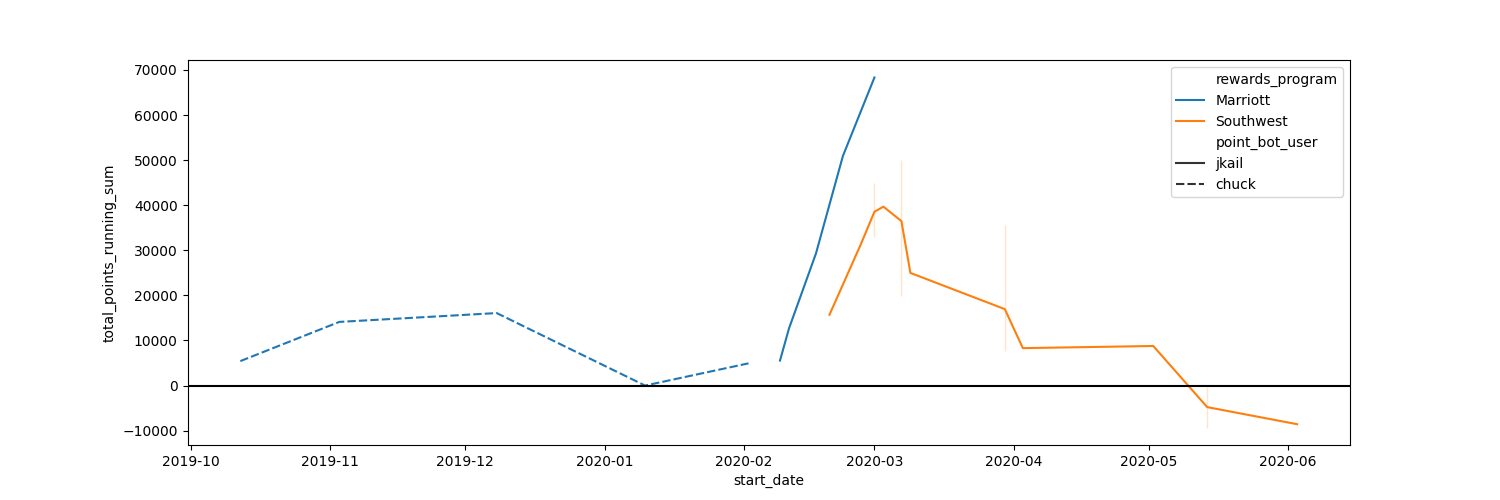
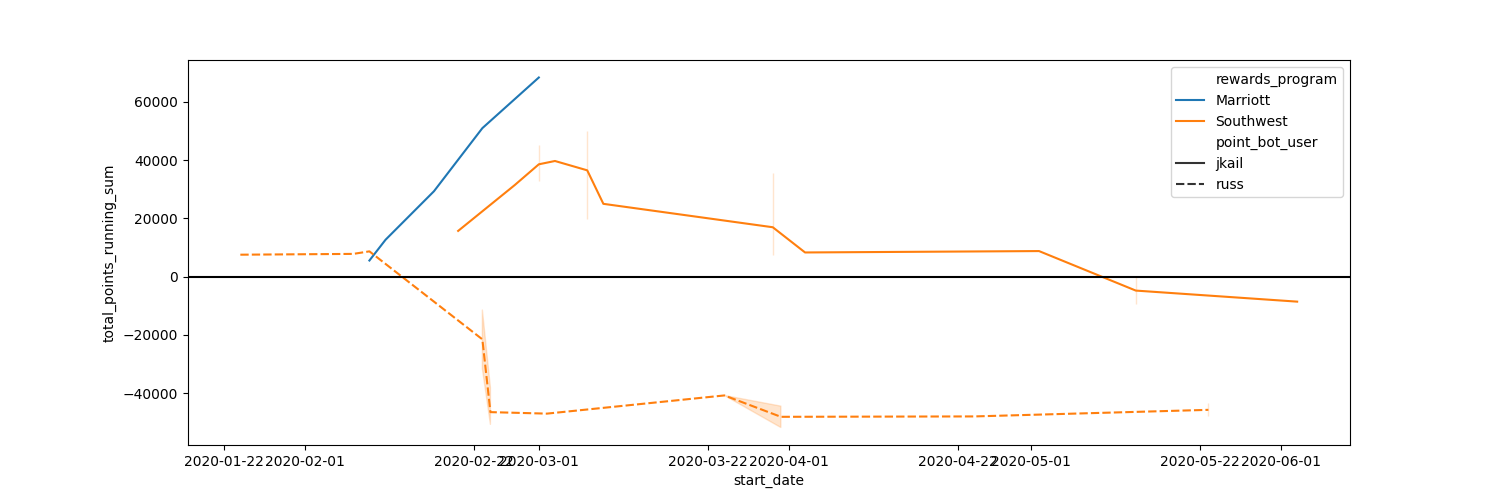
fixed points totaling for russ, parsing was bad in that "zero points" was passed through check into pulling last argument vs first

diff --git a/src/point_bot/visualize_data.py b/src/point_bot/visualize_data.py
@@ -63,56 +63,63 @@ class VisualizeData:
         if new_points_column == None:
             new_points_column = points_column
 
-        df[new_points_column] = df[points_column].apply(lambda x: int(x.split(' ')[0].replace('plus','').replace('minus','-') + x.split(' ')[1].replace(',','')) )
+        df[new_points_column] = df[points_column].apply(lambda x: int(x.split(' ')[0].replace('plus','').replace('minus','-').replace('zero','0') + x.split(' ')[1].replace(',','').replace('points','')) )
         return df
 
-    def get_data(self,point_bot_user,dflist):
+    def addmarriott(self,point_bot_user,dflist):
         try:
-            try:
-                botname = 'marriottbot'
-                datalocationpathbase = f"data/botsdata/{botname}/parsed/{point_bot_user}_{botname.replace('bot','')}_points_parsed.json"
-                df_marriott = pd.read_json(datalocationpathbase, orient="records")
-                df_marriott = df_marriott.sort_values(by=['start_date'])
-                df_marriott['total_points_running_sum'] = df_marriott['total_points'].cumsum()
-                df_marriott['rewards_program'] = 'Marriott'
-                df_marriott = self.fixdatecolumn(df_marriott,'start_date',fmt = '%m/%d/%Y')
-                df_marriott['point_bot_user'] = point_bot_user
-                df_marriott2 = df_marriott[['point_bot_user','rewards_program','start_date','total_points_running_sum']]
-                dflist.append(df_marriott2)
-                print(f'{point_bot_user} has marriott data')
-            except Exception as e:
-                print(e)
-                print('no marriott data', point_bot_user)
-                raise Exception('no marriott data', point_bot_user)
+            botname = 'marriottbot'
+            datalocationpathbase = f"data/botsdata/{botname}/parsed/{point_bot_user}_{botname.replace('bot','')}_points_parsed.json"
             
-            try:
-                botname = 'southwestbot'
-                datalocationpathbase = f"data/botsdata/{botname}/parsed/{point_bot_user}_{botname.replace('bot','')}_points_parsed.json"
-                df_southwest = pd.read_json(datalocationpathbase, orient="records")
-                df_southwest = df_southwest.sort_values(by=['DATE'])
-                df_southwest['point_bot_user'] = point_bot_user
-                df_southwest['rewards_program'] = 'Southwest'
-                df_southwest['start_date'] = df_southwest['DATE']
-                df_southwest = self.fixsouthwestpoints(df_southwest,'POINTS',new_points_column= 'total_points')
-                df_southwest['total_points_running_sum'] = df_southwest['total_points'].cumsum()
-                df_southwest2 = df_southwest[['point_bot_user','rewards_program','start_date','total_points_running_sum']]
-                dflist.append(df_southwest2)
-                print(f'{point_bot_user} has southwest data')
-            except Exception as e:
-                print(e)
-                print('no southwest data', point_bot_user)
-                raise Exception('no southwest data', point_bot_user)
+            df_marriott = pd.read_json(datalocationpathbase, orient="records")
+            df_marriott = df_marriott.sort_values(by=['start_date'])
+            df_marriott['total_points_running_sum'] = df_marriott['total_points'].cumsum()
+            df_marriott['rewards_program'] = 'Marriott'
+            df_marriott = self.fixdatecolumn(df_marriott,'start_date',fmt = '%m/%d/%Y')
+            df_marriott['point_bot_user'] = point_bot_user
+            df_marriott2 = df_marriott[['point_bot_user','rewards_program','start_date','total_points_running_sum']]
+            dflist.append(df_marriott2)
+            print(f'{point_bot_user} has marriott data')
         except Exception as e:
             print(e)
+            dflist.append(None)
+            print('no marriott data', point_bot_user)
+            #raise Exception('no marriott data', point_bot_user)
+            
+    def addsouthwest(self,point_bot_user,dflist):
+        try:
+            botname = 'southwestbot'
+            datalocationpathbase = f"data/botsdata/{botname}/parsed/{point_bot_user}_{botname.replace('bot','')}_points_parsed.json"
+            print(datalocationpathbase)
+            print('/home/ubuntu/point_bot/src/point_bot/data/botsdata/southwestbot/parsed/russ_southwest_points_parsed.json')
+            df_southwest = pd.read_json(datalocationpathbase, orient="records")
+            df_southwest = df_southwest.sort_values(by=['DATE'])
+            df_southwest['point_bot_user'] = point_bot_user
+            df_southwest['rewards_program'] = 'Southwest'
+            df_southwest['start_date'] = df_southwest['DATE']
+            df_southwest = self.fixsouthwestpoints(df_southwest,'POINTS',new_points_column= 'total_points')
+            df_southwest['total_points_running_sum'] = df_southwest['total_points'].cumsum()
+            #print(df_southwest)
+            df_southwest2 = df_southwest[['point_bot_user','rewards_program','start_date','total_points_running_sum']]
+            dflist.append(df_southwest2)
+            print(f'{point_bot_user} has southwest data')
+        except Exception as e:
+            print(e)
+            dflist.append(None)
+            print('no southwest data', point_bot_user)
+            #raise Exception('no southwest data', point_bot_user)
+
 
 
     def main(self):
         dflist = []
-        for point_bot_user in ['jkail','chuck','russ','ellen']:
+        for point_bot_user in  ['jkail','chuck','russ','ellen']: #['russ']:
             print(point_bot_user)
-            self.get_data(point_bot_user,dflist)
-        print
+            self.addmarriott(point_bot_user,dflist)
+            self.addsouthwest(point_bot_user,dflist)
+        #print(dflist)
         df = pd.concat(dflist)
+        print(df)
 
         plt.figure(figsize=(15,5))
         ax = sns.lineplot(x="start_date", y="total_points_running_sum",  hue="rewards_program", style="point_bot_user", data=df)

diff --git a/src/point_bot/main.py b/src/point_bot/main.py
@@ -34,17 +34,17 @@ if __name__ == "__main__":
         for kwargs in pbp.parameter_list:
             #print(kwargs)
 
-            # if kwargs['rewards_program_name'] == 'Marriott':
-            #     mb = MarriottBot(pbs,  **kwargs)
-            #     mb.mine_hotel_stay_points()
+            if kwargs['rewards_program_name'] == 'Marriott':
+                mb = MarriottBot(pbs,  **kwargs)
+                mb.mine_hotel_stay_points()
 
             if kwargs['rewards_program_name'] == 'Southwest':
                 sb = SouthwestBot(pbs, **kwargs)
                 sb.mine_southwest_points()
 
-            if kwargs["rewards_program_name"] == "Test":
-                tb = TestBot(headless_input=headless, **kwargs)
-                tb.mine_test_bot()
+            # if kwargs["rewards_program_name"] == "Test":
+            #     tb = TestBot(headless_input=headless, **kwargs)
+            #     tb.mine_test_bot()
     
     vds = VisualizeData(pbs,'jkail')
     vds.main()
